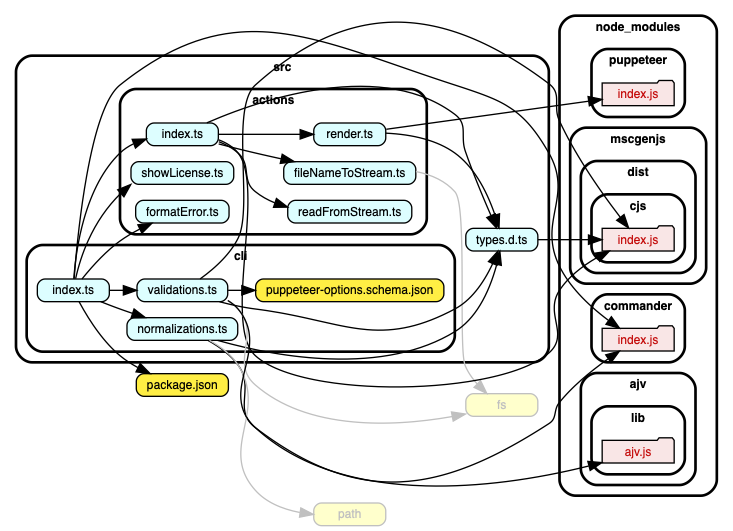
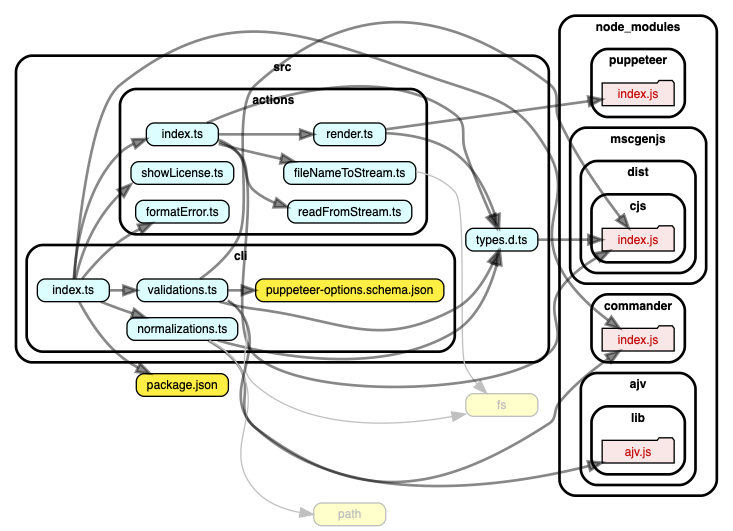
build(npm): :arrow_up: ajv, puppeteer, @types/node, @types/puppeteer, dependency-cruiser, ts-node, tslint, typescript

diff --git a/docs/dependencygraph.html b/docs/dependencygraph.html
@@ -4,24 +4,26 @@
         <meta charset="utf-8">
         <title>dependency-cruiser dependency-graph</title>
         <style>
+            .node:active path, .node:hover path 
+            .node:active polygon, .node:hover polygon {
+                stroke:fuchsia;
+                stroke-width:2;
+            }
+            .node:active text, .node:hover text {
+                fill:fuchsia;
+            }
             .edge:active path, .edge:hover path{
                 stroke:fuchsia;
-                stroke-width:3;
                 stroke-opacity:1;
             }
             .edge:active polygon, .edge:hover polygon  {
                 stroke:fuchsia;
-                stroke-width:3;
                 fill:fuchsia;
                 stroke-opacity:1;
                 fill-opacity:1;
             }
             .edge:active text, .edge:hover text{
                 fill:fuchsia;
-            }
-            .cluster path {
-               stroke-width:3;
-               fill: white;
             }
             .cluster:active path, .cluster:hover path {
                 fill: #ffff0011;
@@ -42,57 +44,57 @@
 <polygon fill="#ffffff" stroke="transparent" points="-4,4 -4,-394.5 545.6255,-394.5 545.6255,4 -4,4"/>
 <g id="clust1" class="cluster">
 <title>cluster_node_modules</title>
-<path fill="none" stroke="#000000" stroke-width="2" d="M427.6255,-22.5C427.6255,-22.5 521.6255,-22.5 521.6255,-22.5 527.6255,-22.5 533.6255,-28.5 533.6255,-34.5 533.6255,-34.5 533.6255,-370.5 533.6255,-370.5 533.6255,-376.5 527.6255,-382.5 521.6255,-382.5 521.6255,-382.5 427.6255,-382.5 427.6255,-382.5 421.6255,-382.5 415.6255,-376.5 415.6255,-370.5 415.6255,-370.5 415.6255,-34.5 415.6255,-34.5 415.6255,-28.5 421.6255,-22.5 427.6255,-22.5"/>
+<path fill="#ffffff" stroke="#000000" stroke-width="2" d="M427.6255,-22.5C427.6255,-22.5 521.6255,-22.5 521.6255,-22.5 527.6255,-22.5 533.6255,-28.5 533.6255,-34.5 533.6255,-34.5 533.6255,-370.5 533.6255,-370.5 533.6255,-376.5 527.6255,-382.5 521.6255,-382.5 521.6255,-382.5 427.6255,-382.5 427.6255,-382.5 421.6255,-382.5 415.6255,-376.5 415.6255,-370.5 415.6255,-370.5 415.6255,-34.5 415.6255,-34.5 415.6255,-28.5 421.6255,-22.5 427.6255,-22.5"/>
 <text text-anchor="middle" x="474.6255" y="-371.3" font-family="Helvetica,sans-Serif" font-weight="bold" font-size="9.00" fill="#000000">node_modules</text>
 </g>
 <g id="clust2" class="cluster">
 <title>cluster_node_modules/ajv</title>
-<path fill="none" stroke="#000000" stroke-width="2" d="M443.6255,-30.5C443.6255,-30.5 505.6255,-30.5 505.6255,-30.5 511.6255,-30.5 517.6255,-36.5 517.6255,-42.5 517.6255,-42.5 517.6255,-102.5 517.6255,-102.5 517.6255,-108.5 511.6255,-114.5 505.6255,-114.5 505.6255,-114.5 443.6255,-114.5 443.6255,-114.5 437.6255,-114.5 431.6255,-108.5 431.6255,-102.5 431.6255,-102.5 431.6255,-42.5 431.6255,-42.5 431.6255,-36.5 437.6255,-30.5 443.6255,-30.5"/>
+<path fill="#ffffff" stroke="#000000" stroke-width="2" d="M443.6255,-30.5C443.6255,-30.5 505.6255,-30.5 505.6255,-30.5 511.6255,-30.5 517.6255,-36.5 517.6255,-42.5 517.6255,-42.5 517.6255,-102.5 517.6255,-102.5 517.6255,-108.5 511.6255,-114.5 505.6255,-114.5 505.6255,-114.5 443.6255,-114.5 443.6255,-114.5 437.6255,-114.5 431.6255,-108.5 431.6255,-102.5 431.6255,-102.5 431.6255,-42.5 431.6255,-42.5 431.6255,-36.5 437.6255,-30.5 443.6255,-30.5"/>
 <text text-anchor="middle" x="474.6255" y="-103.3" font-family="Helvetica,sans-Serif" font-weight="bold" font-size="9.00" fill="#000000">ajv</text>
 </g>
 <g id="clust3" class="cluster">
 <title>cluster_node_modules/ajv/lib</title>
-<path fill="none" stroke="#000000" stroke-width="2" d="M451.6255,-38.5C451.6255,-38.5 497.6255,-38.5 497.6255,-38.5 503.6255,-38.5 509.6255,-44.5 509.6255,-50.5 509.6255,-50.5 509.6255,-77.5 509.6255,-77.5 509.6255,-83.5 503.6255,-89.5 497.6255,-89.5 497.6255,-89.5 451.6255,-89.5 451.6255,-89.5 445.6255,-89.5 439.6255,-83.5 439.6255,-77.5 439.6255,-77.5 439.6255,-50.5 439.6255,-50.5 439.6255,-44.5 445.6255,-38.5 451.6255,-38.5"/>
+<path fill="#ffffff" stroke="#000000" stroke-width="2" d="M451.6255,-38.5C451.6255,-38.5 497.6255,-38.5 497.6255,-38.5 503.6255,-38.5 509.6255,-44.5 509.6255,-50.5 509.6255,-50.5 509.6255,-77.5 509.6255,-77.5 509.6255,-83.5 503.6255,-89.5 497.6255,-89.5 497.6255,-89.5 451.6255,-89.5 451.6255,-89.5 445.6255,-89.5 439.6255,-83.5 439.6255,-77.5 439.6255,-77.5 439.6255,-50.5 439.6255,-50.5 439.6255,-44.5 445.6255,-38.5 451.6255,-38.5"/>
 <text text-anchor="middle" x="474.6255" y="-78.3" font-family="Helvetica,sans-Serif" font-weight="bold" font-size="9.00" fill="#000000">lib</text>
 </g>
 <g id="clust4" class="cluster">
 <title>cluster_node_modules/commander</title>
-<path fill="none" stroke="#000000" stroke-width="2" d="M451.6255,-122.5C451.6255,-122.5 497.6255,-122.5 497.6255,-122.5 503.6255,-122.5 509.6255,-128.5 509.6255,-134.5 509.6255,-134.5 509.6255,-161.5 509.6255,-161.5 509.6255,-167.5 503.6255,-173.5 497.6255,-173.5 497.6255,-173.5 451.6255,-173.5 451.6255,-173.5 445.6255,-173.5 439.6255,-167.5 439.6255,-161.5 439.6255,-161.5 439.6255,-134.5 439.6255,-134.5 439.6255,-128.5 445.6255,-122.5 451.6255,-122.5"/>
+<path fill="#ffffff" stroke="#000000" stroke-width="2" d="M451.6255,-122.5C451.6255,-122.5 497.6255,-122.5 497.6255,-122.5 503.6255,-122.5 509.6255,-128.5 509.6255,-134.5 509.6255,-134.5 509.6255,-161.5 509.6255,-161.5 509.6255,-167.5 503.6255,-173.5 497.6255,-173.5 497.6255,-173.5 451.6255,-173.5 451.6255,-173.5 445.6255,-173.5 439.6255,-167.5 439.6255,-161.5 439.6255,-161.5 439.6255,-134.5 439.6255,-134.5 439.6255,-128.5 445.6255,-122.5 451.6255,-122.5"/>
 <text text-anchor="middle" x="474.6255" y="-162.3" font-family="Helvetica,sans-Serif" font-weight="bold" font-size="9.00" fill="#000000">commander</text>
 </g>
 <g id="clust5" class="cluster">
 <title>cluster_node_modules/mscgenjs</title>
-<path fill="none" stroke="#000000" stroke-width="2" d="M435.6255,-181.5C435.6255,-181.5 513.6255,-181.5 513.6255,-181.5 519.6255,-181.5 525.6255,-187.5 525.6255,-193.5 525.6255,-193.5 525.6255,-286.5 525.6255,-286.5 525.6255,-292.5 519.6255,-298.5 513.6255,-298.5 513.6255,-298.5 435.6255,-298.5 435.6255,-298.5 429.6255,-298.5 423.6255,-292.5 423.6255,-286.5 423.6255,-286.5 423.6255,-193.5 423.6255,-193.5 423.6255,-187.5 429.6255,-181.5 435.6255,-181.5"/>
+<path fill="#ffffff" stroke="#000000" stroke-width="2" d="M435.6255,-181.5C435.6255,-181.5 513.6255,-181.5 513.6255,-181.5 519.6255,-181.5 525.6255,-187.5 525.6255,-193.5 525.6255,-193.5 525.6255,-286.5 525.6255,-286.5 525.6255,-292.5 519.6255,-298.5 513.6255,-298.5 513.6255,-298.5 435.6255,-298.5 435.6255,-298.5 429.6255,-298.5 423.6255,-292.5 423.6255,-286.5 423.6255,-286.5 423.6255,-193.5 423.6255,-193.5 423.6255,-187.5 429.6255,-181.5 435.6255,-181.5"/>
 <text text-anchor="middle" x="474.6255" y="-287.3" font-family="Helvetica,sans-Serif" font-weight="bold" font-size="9.00" fill="#000000">mscgenjs</text>
 </g>
 <g id="clust6" class="cluster">
 <title>cluster_node_modules/mscgenjs/dist</title>
-<path fill="none" stroke="#000000" stroke-width="2" d="M443.6255,-189.5C443.6255,-189.5 505.6255,-189.5 505.6255,-189.5 511.6255,-189.5 517.6255,-195.5 517.6255,-201.5 517.6255,-201.5 517.6255,-261.5 517.6255,-261.5 517.6255,-267.5 511.6255,-273.5 505.6255,-273.5 505.6255,-273.5 443.6255,-273.5 443.6255,-273.5 437.6255,-273.5 431.6255,-267.5 431.6255,-261.5 431.6255,-261.5 431.6255,-201.5 431.6255,-201.5 431.6255,-195.5 437.6255,-189.5 443.6255,-189.5"/>
+<path fill="#ffffff" stroke="#000000" stroke-width="2" d="M443.6255,-189.5C443.6255,-189.5 505.6255,-189.5 505.6255,-189.5 511.6255,-189.5 517.6255,-195.5 517.6255,-201.5 517.6255,-201.5 517.6255,-261.5 517.6255,-261.5 517.6255,-267.5 511.6255,-273.5 505.6255,-273.5 505.6255,-273.5 443.6255,-273.5 443.6255,-273.5 437.6255,-273.5 431.6255,-267.5 431.6255,-261.5 431.6255,-261.5 431.6255,-201.5 431.6255,-201.5 431.6255,-195.5 437.6255,-189.5 443.6255,-189.5"/>
 <text text-anchor="middle" x="474.6255" y="-262.3" font-family="Helvetica,sans-Serif" font-weight="bold" font-size="9.00" fill="#000000">dist</text>
 </g>
 <g id="clust7" class="cluster">
 <title>cluster_node_modules/mscgenjs/dist/cjs</title>
-<path fill="none" stroke="#000000" stroke-width="2" d="M451.6255,-197.5C451.6255,-197.5 497.6255,-197.5 497.6255,-197.5 503.6255,-197.5 509.6255,-203.5 509.6255,-209.5 509.6255,-209.5 509.6255,-236.5 509.6255,-236.5 509.6255,-242.5 503.6255,-248.5 497.6255,-248.5 497.6255,-248.5 451.6255,-248.5 451.6255,-248.5 445.6255,-248.5 439.6255,-242.5 439.6255,-236.5 439.6255,-236.5 439.6255,-209.5 439.6255,-209.5 439.6255,-203.5 445.6255,-197.5 451.6255,-197.5"/>
+<path fill="#ffffff" stroke="#000000" stroke-width="2" d="M451.6255,-197.5C451.6255,-197.5 497.6255,-197.5 497.6255,-197.5 503.6255,-197.5 509.6255,-203.5 509.6255,-209.5 509.6255,-209.5 509.6255,-236.5 509.6255,-236.5 509.6255,-242.5 503.6255,-248.5 497.6255,-248.5 497.6255,-248.5 451.6255,-248.5 451.6255,-248.5 445.6255,-248.5 439.6255,-242.5 439.6255,-236.5 439.6255,-236.5 439.6255,-209.5 439.6255,-209.5 439.6255,-203.5 445.6255,-197.5 451.6255,-197.5"/>
 <text text-anchor="middle" x="474.6255" y="-237.3" font-family="Helvetica,sans-Serif" font-weight="bold" font-size="9.00" fill="#000000">cjs</text>
 </g>
 <g id="clust8" class="cluster">
 <title>cluster_node_modules/puppeteer</title>
-<path fill="none" stroke="#000000" stroke-width="2" d="M451.6255,-306.5C451.6255,-306.5 497.6255,-306.5 497.6255,-306.5 503.6255,-306.5 509.6255,-312.5 509.6255,-318.5 509.6255,-318.5 509.6255,-345.5 509.6255,-345.5 509.6255,-351.5 503.6255,-357.5 497.6255,-357.5 497.6255,-357.5 451.6255,-357.5 451.6255,-357.5 445.6255,-357.5 439.6255,-351.5 439.6255,-345.5 439.6255,-345.5 439.6255,-318.5 439.6255,-318.5 439.6255,-312.5 445.6255,-306.5 451.6255,-306.5"/>
+<path fill="#ffffff" stroke="#000000" stroke-width="2" d="M451.6255,-306.5C451.6255,-306.5 497.6255,-306.5 497.6255,-306.5 503.6255,-306.5 509.6255,-312.5 509.6255,-318.5 509.6255,-318.5 509.6255,-345.5 509.6255,-345.5 509.6255,-351.5 503.6255,-357.5 497.6255,-357.5 497.6255,-357.5 451.6255,-357.5 451.6255,-357.5 445.6255,-357.5 439.6255,-351.5 439.6255,-345.5 439.6255,-345.5 439.6255,-318.5 439.6255,-318.5 439.6255,-312.5 445.6255,-306.5 451.6255,-306.5"/>
 <text text-anchor="middle" x="474.6255" y="-346.3" font-family="Helvetica,sans-Serif" font-weight="bold" font-size="9.00" fill="#000000">puppeteer</text>
 </g>
 <g id="clust9" class="cluster">
 <title>cluster_src</title>
-<path fill="none" stroke="#000000" stroke-width="2" d="M20,-122.5C20,-122.5 395.6255,-122.5 395.6255,-122.5 401.6255,-122.5 407.6255,-128.5 407.6255,-134.5 407.6255,-134.5 407.6255,-340.5 407.6255,-340.5 407.6255,-346.5 401.6255,-352.5 395.6255,-352.5 395.6255,-352.5 20,-352.5 20,-352.5 14,-352.5 8,-346.5 8,-340.5 8,-340.5 8,-134.5 8,-134.5 8,-128.5 14,-122.5 20,-122.5"/>
+<path fill="#ffffff" stroke="#000000" stroke-width="2" d="M20,-122.5C20,-122.5 395.6255,-122.5 395.6255,-122.5 401.6255,-122.5 407.6255,-128.5 407.6255,-134.5 407.6255,-134.5 407.6255,-340.5 407.6255,-340.5 407.6255,-346.5 401.6255,-352.5 395.6255,-352.5 395.6255,-352.5 20,-352.5 20,-352.5 14,-352.5 8,-346.5 8,-340.5 8,-340.5 8,-134.5 8,-134.5 8,-128.5 14,-122.5 20,-122.5"/>
 <text text-anchor="middle" x="207.8127" y="-341.3" font-family="Helvetica,sans-Serif" font-weight="bold" font-size="9.00" fill="#000000">src</text>
 </g>
 <g id="clust10" class="cluster">
 <title>cluster_src/actions</title>
-<path fill="none" stroke="#000000" stroke-width="2" d="M98,-218.5C98,-218.5 304.0818,-218.5 304.0818,-218.5 310.0818,-218.5 316.0818,-224.5 316.0818,-230.5 316.0818,-230.5 316.0818,-315.5 316.0818,-315.5 316.0818,-321.5 310.0818,-327.5 304.0818,-327.5 304.0818,-327.5 98,-327.5 98,-327.5 92,-327.5 86,-321.5 86,-315.5 86,-315.5 86,-230.5 86,-230.5 86,-224.5 92,-218.5 98,-218.5"/>
+<path fill="#ffffff" stroke="#000000" stroke-width="2" d="M98,-218.5C98,-218.5 304.0818,-218.5 304.0818,-218.5 310.0818,-218.5 316.0818,-224.5 316.0818,-230.5 316.0818,-230.5 316.0818,-315.5 316.0818,-315.5 316.0818,-321.5 310.0818,-327.5 304.0818,-327.5 304.0818,-327.5 98,-327.5 98,-327.5 92,-327.5 86,-321.5 86,-315.5 86,-315.5 86,-230.5 86,-230.5 86,-224.5 92,-218.5 98,-218.5"/>
 <text text-anchor="middle" x="201.0409" y="-316.3" font-family="Helvetica,sans-Serif" font-weight="bold" font-size="9.00" fill="#000000">actions</text>
 </g>
 <g id="clust11" class="cluster">
 <title>cluster_src/cli</title>
-<path fill="none" stroke="#000000" stroke-width="2" d="M28,-130.5C28,-130.5 325.1074,-130.5 325.1074,-130.5 331.1074,-130.5 337.1074,-136.5 337.1074,-142.5 337.1074,-142.5 337.1074,-198.5 337.1074,-198.5 337.1074,-204.5 331.1074,-210.5 325.1074,-210.5 325.1074,-210.5 28,-210.5 28,-210.5 22,-210.5 16,-204.5 16,-198.5 16,-198.5 16,-142.5 16,-142.5 16,-136.5 22,-130.5 28,-130.5"/>
+<path fill="#ffffff" stroke="#000000" stroke-width="2" d="M28,-130.5C28,-130.5 325.1074,-130.5 325.1074,-130.5 331.1074,-130.5 337.1074,-136.5 337.1074,-142.5 337.1074,-142.5 337.1074,-198.5 337.1074,-198.5 337.1074,-204.5 331.1074,-210.5 325.1074,-210.5 325.1074,-210.5 28,-210.5 28,-210.5 22,-210.5 16,-204.5 16,-198.5 16,-198.5 16,-142.5 16,-142.5 16,-136.5 22,-130.5 28,-130.5"/>
 <text text-anchor="middle" x="176.5537" y="-199.3" font-family="Helvetica,sans-Serif" font-weight="bold" font-size="9.00" fill="#000000">cli</text>
 </g>
 <!-- fs -->
@@ -188,14 +190,14 @@
 <!-- src/actions/index.ts&#45;&gt;node_modules/mscgenjs/dist/cjs/index.js -->
 <g id="edge6" class="edge">
 <title>src/actions/index.ts&#45;&gt;node_modules/mscgenjs/dist/cjs/index.js</title>
-<path fill="none" stroke="#000000" d="M159.9134,-289.4077C165.5252,-287.3201 170.8425,-284.1888 174.5293,-279.5 195.4838,-252.8506 162.5571,-150.4276 187.5293,-127.5 223.559,-94.4202 370.701,-97.422 407.6255,-129.5 423.6216,-143.3965 403.9495,-158.8178 415.6255,-176.5 422.5316,-186.9587 433.414,-195.1478 443.962,-201.2027"/>
-<polygon fill="#000000" stroke="#000000" points="442.5575,-204.4186 453.037,-205.9776 445.817,-198.2237 442.5575,-204.4186"/>
+<path fill="none" stroke="#000000" stroke-width="2" stroke-opacity="0.466667" d="M159.9134,-289.4077C165.5252,-287.3201 170.8425,-284.1888 174.5293,-279.5 195.4838,-252.8506 162.5571,-150.4276 187.5293,-127.5 223.559,-94.4202 370.701,-97.422 407.6255,-129.5 423.6216,-143.3965 403.9495,-158.8178 415.6255,-176.5 422.5316,-186.9587 433.414,-195.1478 443.962,-201.2027"/>
+<polygon fill="#000000" fill-opacity="0.466667" stroke="#000000" stroke-width="2" stroke-opacity="0.466667" points="442.5575,-204.4186 453.037,-205.9776 445.817,-198.2237 442.5575,-204.4186"/>
 </g>
 <!-- src/actions/index.ts&#45;&gt;src/actions/fileNameToStream.ts -->
 <g id="edge3" class="edge">
 <title>src/actions/index.ts&#45;&gt;src/actions/fileNameToStream.ts</title>
-<path fill="none" stroke="#000000" d="M160.0098,-286.2981C168.7773,-284.044 178.5468,-281.5989 187.5293,-279.5 193.7108,-278.0556 200.2101,-276.597 206.6609,-275.186"/>
-<polygon fill="#000000" stroke="#000000" points="207.6694,-278.549 216.7052,-273.0169 206.1917,-271.7067 207.6694,-278.549"/>
+<path fill="none" stroke="#000000" stroke-width="2" stroke-opacity="0.466667" d="M160.0098,-286.2981C168.7773,-284.044 178.5468,-281.5989 187.5293,-279.5 193.7108,-278.0556 200.2101,-276.597 206.6609,-275.186"/>
+<polygon fill="#000000" fill-opacity="0.466667" stroke="#000000" stroke-width="2" stroke-opacity="0.466667" points="207.6694,-278.549 216.7052,-273.0169 206.1917,-271.7067 207.6694,-278.549"/>
 </g>
 <!-- src/actions/readFromStream.ts -->
 <g id="node11" class="node">
@@ -209,8 +211,8 @@
 <!-- src/actions/index.ts&#45;&gt;src/actions/readFromStream.ts -->
 <g id="edge4" class="edge">
 <title>src/actions/index.ts&#45;&gt;src/actions/readFromStream.ts</title>
-<path fill="none" stroke="#000000" d="M160.1549,-287.9305C165.3619,-285.9232 170.4501,-283.198 174.5293,-279.5 184.994,-270.0134 176.5383,-259.3715 187.5293,-250.5 191.8672,-246.9986 196.8282,-244.2604 202.066,-242.126"/>
-<polygon fill="#000000" stroke="#000000" points="203.3422,-245.3898 211.718,-238.9017 201.1243,-238.7505 203.3422,-245.3898"/>
+<path fill="none" stroke="#000000" stroke-width="2" stroke-opacity="0.466667" d="M160.1549,-287.9305C165.3619,-285.9232 170.4501,-283.198 174.5293,-279.5 184.994,-270.0134 176.5383,-259.3715 187.5293,-250.5 191.8672,-246.9986 196.8282,-244.2604 202.066,-242.126"/>
+<polygon fill="#000000" fill-opacity="0.466667" stroke="#000000" stroke-width="2" stroke-opacity="0.466667" points="203.3422,-245.3898 211.718,-238.9017 201.1243,-238.7505 203.3422,-245.3898"/>
 </g>
 <!-- src/actions/render.ts -->
 <g id="node12" class="node">
@@ -224,8 +226,8 @@
 <!-- src/actions/index.ts&#45;&gt;src/actions/render.ts -->
 <g id="edge5" class="edge">
 <title>src/actions/index.ts&#45;&gt;src/actions/render.ts</title>
-<path fill="none" stroke="#000000" d="M160.0091,-293.5C177.8601,-293.5 201.427,-293.5 221.0114,-293.5"/>
-<polygon fill="#000000" stroke="#000000" points="221.1286,-297.0001 231.1286,-293.5 221.1285,-290.0001 221.1286,-297.0001"/>
+<path fill="none" stroke="#000000" stroke-width="2" stroke-opacity="0.466667" d="M160.0091,-293.5C177.8601,-293.5 201.427,-293.5 221.0114,-293.5"/>
+<polygon fill="#000000" fill-opacity="0.466667" stroke="#000000" stroke-width="2" stroke-opacity="0.466667" points="221.1286,-297.0001 231.1286,-293.5 221.1285,-290.0001 221.1286,-297.0001"/>
 </g>
 <!-- src/types.d.ts -->
 <g id="node18" class="node">
@@ -239,20 +241,20 @@
 <!-- src/actions/index.ts&#45;&gt;src/types.d.ts -->
 <g id="edge2" class="edge">
 <title>src/actions/index.ts&#45;&gt;src/types.d.ts</title>
-<path fill="none" stroke="#000000" d="M151.1146,-302.1195C189.8525,-318.9075 281.0207,-350.8063 337.1074,-308.5 347.44,-300.7061 340.8525,-292.723 345.1074,-280.5 350.8318,-264.0557 358.4802,-245.7888 364.2182,-232.6492"/>
-<polygon fill="#000000" stroke="#000000" points="367.4901,-233.9044 368.3372,-223.3434 361.0892,-231.071 367.4901,-233.9044"/>
+<path fill="none" stroke="#000000" stroke-width="2" stroke-opacity="0.466667" d="M151.1146,-302.1195C189.8525,-318.9075 281.0207,-350.8063 337.1074,-308.5 347.44,-300.7061 340.8525,-292.723 345.1074,-280.5 350.8318,-264.0557 358.4802,-245.7888 364.2182,-232.6492"/>
+<polygon fill="#000000" fill-opacity="0.466667" stroke="#000000" stroke-width="2" stroke-opacity="0.466667" points="367.4901,-233.9044 368.3372,-223.3434 361.0892,-231.071 367.4901,-233.9044"/>
 </g>
 <!-- src/actions/render.ts&#45;&gt;node_modules/puppeteer/index.js -->
 <g id="edge8" class="edge">
 <title>src/actions/render.ts&#45;&gt;node_modules/puppeteer/index.js</title>
-<path fill="none" stroke="#000000" d="M285.7138,-297.2995C324.1521,-302.6306 394.2096,-312.347 437.3604,-318.3316"/>
-<polygon fill="#000000" stroke="#000000" points="437.0664,-321.8243 447.4525,-319.7313 438.0281,-314.8907 437.0664,-321.8243"/>
+<path fill="none" stroke="#000000" stroke-width="2" stroke-opacity="0.466667" d="M285.7138,-297.2995C324.1521,-302.6306 394.2096,-312.347 437.3604,-318.3316"/>
+<polygon fill="#000000" fill-opacity="0.466667" stroke="#000000" stroke-width="2" stroke-opacity="0.466667" points="437.0664,-321.8243 447.4525,-319.7313 438.0281,-314.8907 437.0664,-321.8243"/>
 </g>
 <!-- src/actions/render.ts&#45;&gt;src/types.d.ts -->
 <g id="edge7" class="edge">
 <title>src/actions/render.ts&#45;&gt;src/types.d.ts</title>
-<path fill="none" stroke="#000000" d="M285.3977,-294.3784C301.7507,-293.6141 322.2334,-290.2271 337.1074,-279.5 352.6922,-268.2603 362.1058,-247.9449 367.2371,-233.008"/>
-<polygon fill="#000000" stroke="#000000" points="370.632,-233.8767 370.2436,-223.289 363.9446,-231.808 370.632,-233.8767"/>
+<path fill="none" stroke="#000000" stroke-width="2" stroke-opacity="0.466667" d="M285.3977,-294.3784C301.7507,-293.6141 322.2334,-290.2271 337.1074,-279.5 352.6922,-268.2603 362.1058,-247.9449 367.2371,-233.008"/>
+<polygon fill="#000000" fill-opacity="0.466667" stroke="#000000" stroke-width="2" stroke-opacity="0.466667" points="370.632,-233.8767 370.2436,-223.289 363.9446,-231.808 370.632,-233.8767"/>
 </g>
 <!-- src/actions/showLicense.ts -->
 <g id="node13" class="node">
@@ -275,32 +277,32 @@
 <!-- src/cli/index.ts&#45;&gt;node_modules/commander/index.js -->
 <g id="edge15" class="edge">
 <title>src/cli/index.ts&#45;&gt;node_modules/commander/index.js</title>
-<path fill="none" stroke="#000000" d="M51.6014,-185.2514C53.851,-215.0924 62.8574,-312.0269 86,-330.5 173.2229,-400.1238 230.9289,-364.8717 337.1074,-330.5 373.9063,-318.5876 388.4319,-313.0807 407.6255,-279.5 426.4547,-246.5567 398.8768,-228.5482 415.6255,-194.5 423.7613,-177.9607 439.1282,-163.8893 452.1395,-154.1203"/>
-<polygon fill="#000000" stroke="#000000" points="454.5313,-156.7143 460.6532,-148.0671 450.475,-151.0093 454.5313,-156.7143"/>
+<path fill="none" stroke="#000000" stroke-width="2" stroke-opacity="0.466667" d="M51.6014,-185.2514C53.851,-215.0924 62.8574,-312.0269 86,-330.5 173.2229,-400.1238 230.9289,-364.8717 337.1074,-330.5 373.9063,-318.5876 388.4319,-313.0807 407.6255,-279.5 426.4547,-246.5567 398.8768,-228.5482 415.6255,-194.5 423.7613,-177.9607 439.1282,-163.8893 452.1395,-154.1203"/>
+<polygon fill="#000000" fill-opacity="0.466667" stroke="#000000" stroke-width="2" stroke-opacity="0.466667" points="454.5313,-156.7143 460.6532,-148.0671 450.475,-151.0093 454.5313,-156.7143"/>
 </g>
 <!-- src/cli/index.ts&#45;&gt;package.json -->
 <g id="edge9" class="edge">
 <title>src/cli/index.ts&#45;&gt;package.json</title>
-<path fill="none" stroke="#000000" d="M55.3717,-167.8551C61.1382,-157.1772 72.1909,-139.0167 86,-127.5 90.0311,-124.1381 94.6619,-121.1639 99.4079,-118.5757"/>
-<polygon fill="#000000" stroke="#000000" points="101.1244,-121.6319 108.5492,-114.0739 98.0317,-115.3521 101.1244,-121.6319"/>
+<path fill="none" stroke="#000000" stroke-width="2" stroke-opacity="0.466667" d="M55.3717,-167.8551C61.1382,-157.1772 72.1909,-139.0167 86,-127.5 90.0311,-124.1381 94.6619,-121.1639 99.4079,-118.5757"/>
+<polygon fill="#000000" fill-opacity="0.466667" stroke="#000000" stroke-width="2" stroke-opacity="0.466667" points="101.1244,-121.6319 108.5492,-114.0739 98.0317,-115.3521 101.1244,-121.6319"/>
 </g>
 <!-- src/cli/index.ts&#45;&gt;src/actions/formatError.ts -->
 <g id="edge11" class="edge">
 <title>src/cli/index.ts&#45;&gt;src/actions/formatError.ts</title>
-<path fill="none" stroke="#000000" d="M57.4845,-185.0143C64.0025,-193.1351 74.682,-205.3095 86,-213.5 90.5431,-216.7877 95.6553,-219.7814 100.788,-222.4287"/>
-<polygon fill="#000000" stroke="#000000" points="99.3998,-225.6445 109.9305,-226.8083 102.424,-219.3314 99.3998,-225.6445"/>
+<path fill="none" stroke="#000000" stroke-width="2" stroke-opacity="0.466667" d="M57.4845,-185.0143C64.0025,-193.1351 74.682,-205.3095 86,-213.5 90.5431,-216.7877 95.6553,-219.7814 100.788,-222.4287"/>
+<polygon fill="#000000" fill-opacity="0.466667" stroke="#000000" stroke-width="2" stroke-opacity="0.466667" points="99.3998,-225.6445 109.9305,-226.8083 102.424,-219.3314 99.3998,-225.6445"/>
 </g>
 <!-- src/cli/index.ts&#45;&gt;src/actions/index.ts -->
 <g id="edge10" class="edge">
 <title>src/cli/index.ts&#45;&gt;src/actions/index.ts</title>
-<path fill="none" stroke="#000000" d="M51.3679,-185.0718C52.68,-204.6832 58.6695,-253.1544 86,-279.5 88.9365,-282.3306 92.4216,-284.5918 96.1453,-286.3975"/>
-<polygon fill="#000000" stroke="#000000" points="95.1248,-289.7534 105.7164,-290.013 97.5984,-283.205 95.1248,-289.7534"/>
+<path fill="none" stroke="#000000" stroke-width="2" stroke-opacity="0.466667" d="M51.3679,-185.0718C52.68,-204.6832 58.6695,-253.1544 86,-279.5 88.9365,-282.3306 92.4216,-284.5918 96.1453,-286.3975"/>
+<polygon fill="#000000" fill-opacity="0.466667" stroke="#000000" stroke-width="2" stroke-opacity="0.466667" points="95.1248,-289.7534 105.7164,-290.013 97.5984,-283.205 95.1248,-289.7534"/>
 </g>
 <!-- src/cli/index.ts&#45;&gt;src/actions/showLicense.ts -->
 <g id="edge12" class="edge">
 <title>src/cli/index.ts&#45;&gt;src/actions/showLicense.ts</title>
-<path fill="none" stroke="#000000" d="M52.6961,-185.2102C55.8364,-199.2141 63.8182,-227.0033 86.5572,-249.2095"/>
-<polygon fill="#000000" stroke="#000000" points="84.2957,-251.882 94.0989,-255.9004 88.9413,-246.6457 84.2957,-251.882"/>
+<path fill="none" stroke="#000000" stroke-width="2" stroke-opacity="0.466667" d="M52.6961,-185.2102C55.8364,-199.2141 63.8182,-227.0033 86.5572,-249.2095"/>
+<polygon fill="#000000" fill-opacity="0.466667" stroke="#000000" stroke-width="2" stroke-opacity="0.466667" points="84.2957,-251.882 94.0989,-255.9004 88.9413,-246.6457 84.2957,-251.882"/>
 </g>
 <!-- src/cli/normalizations.ts -->
 <g id="node15" class="node">
@@ -314,8 +316,8 @@
 <!-- src/cli/index.ts&#45;&gt;src/cli/normalizations.ts -->
 <g id="edge13" class="edge">
 <title>src/cli/index.ts&#45;&gt;src/cli/normalizations.ts</title>
-<path fill="none" stroke="#000000" d="M71.6363,-167.967C76.3341,-166.1023 81.32,-164.1842 86,-162.5 89.0487,-161.4029 92.2227,-160.3009 95.4177,-159.2198"/>
-<polygon fill="#000000" stroke="#000000" points="96.5654,-162.5268 104.9612,-156.0644 94.368,-155.8806 96.5654,-162.5268"/>
+<path fill="none" stroke="#000000" stroke-width="2" stroke-opacity="0.466667" d="M71.6363,-167.967C76.3341,-166.1023 81.32,-164.1842 86,-162.5 89.0487,-161.4029 92.2227,-160.3009 95.4177,-159.2198"/>
+<polygon fill="#000000" fill-opacity="0.466667" stroke="#000000" stroke-width="2" stroke-opacity="0.466667" points="96.5654,-162.5268 104.9612,-156.0644 94.368,-155.8806 96.5654,-162.5268"/>
 </g>
 <!-- src/cli/validations.ts -->
 <g id="node17" class="node">
@@ -329,14 +331,14 @@
 <!-- src/cli/index.ts&#45;&gt;src/cli/validations.ts -->
 <g id="edge14" class="edge">
 <title>src/cli/index.ts&#45;&gt;src/cli/validations.ts</title>
-<path fill="none" stroke="#000000" d="M78.2269,-176.5C81.4789,-176.5 84.8611,-176.5 88.2771,-176.5"/>
-<polygon fill="#000000" stroke="#000000" points="88.5304,-180.0001 98.5304,-176.5 88.5304,-173.0001 88.5304,-180.0001"/>
+<path fill="none" stroke="#000000" stroke-width="2" stroke-opacity="0.466667" d="M78.2269,-176.5C81.4789,-176.5 84.8611,-176.5 88.2771,-176.5"/>
+<polygon fill="#000000" fill-opacity="0.466667" stroke="#000000" stroke-width="2" stroke-opacity="0.466667" points="88.5304,-180.0001 98.5304,-176.5 88.5304,-173.0001 88.5304,-180.0001"/>
 </g>
 <!-- src/cli/normalizations.ts&#45;&gt;node_modules/commander/index.js -->
 <g id="edge17" class="edge">
 <title>src/cli/normalizations.ts&#45;&gt;node_modules/commander/index.js</title>
-<path fill="none" stroke="#000000" d="M152.11,-138.8804C160.0969,-134.4366 168.8061,-128.2943 174.5293,-120.5 187.3568,-103.0305 170.2818,-86.6245 187.5293,-73.5 265.3818,-14.258 325.5187,-23.3106 407.6255,-76.5 414.2982,-80.8226 410.6208,-86.3224 415.6255,-92.5 425.8733,-105.1496 440.0809,-116.5968 451.9862,-125.0265"/>
-<polygon fill="#000000" stroke="#000000" points="450.3031,-128.115 460.5376,-130.8545 454.2453,-122.3306 450.3031,-128.115"/>
+<path fill="none" stroke="#000000" stroke-width="2" stroke-opacity="0.466667" d="M152.11,-138.8804C160.0969,-134.4366 168.8061,-128.2943 174.5293,-120.5 187.3568,-103.0305 170.2818,-86.6245 187.5293,-73.5 265.3818,-14.258 325.5187,-23.3106 407.6255,-76.5 414.2982,-80.8226 410.6208,-86.3224 415.6255,-92.5 425.8733,-105.1496 440.0809,-116.5968 451.9862,-125.0265"/>
+<polygon fill="#000000" fill-opacity="0.466667" stroke="#000000" stroke-width="2" stroke-opacity="0.466667" points="450.3031,-128.115 460.5376,-130.8545 454.2453,-122.3306 450.3031,-128.115"/>
 </g>
 <!-- src/cli/normalizations.ts&#45;&gt;path -->
 <g id="edge18" class="edge">
@@ -347,8 +349,8 @@
 <!-- src/cli/normalizations.ts&#45;&gt;src/types.d.ts -->
 <g id="edge16" class="edge">
 <title>src/cli/normalizations.ts&#45;&gt;src/types.d.ts</title>
-<path fill="none" stroke="#000000" d="M159.2896,-138.9329C200.6659,-127.2795 281.5794,-111.5171 337.1074,-145.5 354.8209,-156.3406 363.9926,-179.1981 368.483,-195.6374"/>
-<polygon fill="#000000" stroke="#000000" points="365.1731,-196.8473 370.8913,-205.7665 371.9832,-195.2281 365.1731,-196.8473"/>
+<path fill="none" stroke="#000000" stroke-width="2" stroke-opacity="0.466667" d="M159.2896,-138.9329C200.6659,-127.2795 281.5794,-111.5171 337.1074,-145.5 354.8209,-156.3406 363.9926,-179.1981 368.483,-195.6374"/>
+<polygon fill="#000000" fill-opacity="0.466667" stroke="#000000" stroke-width="2" stroke-opacity="0.466667" points="365.1731,-196.8473 370.8913,-205.7665 371.9832,-195.2281 365.1731,-196.8473"/>
 </g>
 <!-- src/cli/puppeteer&#45;options.schema.json -->
 <g id="node16" class="node">
@@ -368,32 +370,32 @@
 <!-- src/cli/validations.ts&#45;&gt;node_modules/ajv/lib/ajv.js -->
 <g id="edge21" class="edge">
 <title>src/cli/validations.ts&#45;&gt;node_modules/ajv/lib/ajv.js</title>
-<path fill="none" stroke="#000000" d="M166.8128,-168.9101C169.7217,-167.1895 172.3715,-165.0817 174.5293,-162.5 200.1655,-131.8274 158.1219,-100.5782 187.5293,-73.5 255.9463,-10.5021 376.7493,-29.6343 437.5172,-44.7431"/>
-<polygon fill="#000000" stroke="#000000" points="436.8814,-48.1938 447.4392,-47.3083 438.6336,-41.4166 436.8814,-48.1938"/>
+<path fill="none" stroke="#000000" stroke-width="2" stroke-opacity="0.466667" d="M166.8128,-168.9101C169.7217,-167.1895 172.3715,-165.0817 174.5293,-162.5 200.1655,-131.8274 158.1219,-100.5782 187.5293,-73.5 255.9463,-10.5021 376.7493,-29.6343 437.5172,-44.7431"/>
+<polygon fill="#000000" fill-opacity="0.466667" stroke="#000000" stroke-width="2" stroke-opacity="0.466667" points="436.8814,-48.1938 447.4392,-47.3083 438.6336,-41.4166 436.8814,-48.1938"/>
 </g>
 <!-- src/cli/validations.ts&#45;&gt;node_modules/mscgenjs/dist/cjs/index.js -->
 <g id="edge23" class="edge">
 <title>src/cli/validations.ts&#45;&gt;node_modules/mscgenjs/dist/cjs/index.js</title>
-<path fill="none" stroke="#000000" d="M146.0665,-185.0348C155.6979,-191.9937 168.1096,-202.7383 174.5293,-215.5 186.0868,-238.4751 168.404,-313.3054 187.5293,-330.5 260.2739,-395.9008 329.5298,-390.4077 407.6255,-331.5 417.958,-323.7061 410.2084,-315.2542 415.6255,-303.5 428.0476,-276.5462 448.0068,-248.498 461.2182,-231.2654"/>
-<polygon fill="#000000" stroke="#000000" points="464.04,-233.3386 467.4362,-223.3028 458.5229,-229.0303 464.04,-233.3386"/>
+<path fill="none" stroke="#000000" stroke-width="2" stroke-opacity="0.466667" d="M146.0665,-185.0348C155.6979,-191.9937 168.1096,-202.7383 174.5293,-215.5 186.0868,-238.4751 168.404,-313.3054 187.5293,-330.5 260.2739,-395.9008 329.5298,-390.4077 407.6255,-331.5 417.958,-323.7061 410.2084,-315.2542 415.6255,-303.5 428.0476,-276.5462 448.0068,-248.498 461.2182,-231.2654"/>
+<polygon fill="#000000" fill-opacity="0.466667" stroke="#000000" stroke-width="2" stroke-opacity="0.466667" points="464.04,-233.3386 467.4362,-223.3028 458.5229,-229.0303 464.04,-233.3386"/>
 </g>
 <!-- src/cli/validations.ts&#45;&gt;src/cli/puppeteer&#45;options.schema.json -->
 <g id="edge20" class="edge">
 <title>src/cli/validations.ts&#45;&gt;src/cli/puppeteer&#45;options.schema.json</title>
-<path fill="none" stroke="#000000" d="M167.0738,-176.5C170.3683,-176.5 173.7954,-176.5 177.3059,-176.5"/>
-<polygon fill="#000000" stroke="#000000" points="177.3787,-180.0001 187.3787,-176.5 177.3786,-173.0001 177.3787,-180.0001"/>
+<path fill="none" stroke="#000000" stroke-width="2" stroke-opacity="0.466667" d="M167.0738,-176.5C170.3683,-176.5 173.7954,-176.5 177.3059,-176.5"/>
+<polygon fill="#000000" fill-opacity="0.466667" stroke="#000000" stroke-width="2" stroke-opacity="0.466667" points="177.3787,-180.0001 187.3787,-176.5 177.3786,-173.0001 177.3787,-180.0001"/>
 </g>
 <!-- src/cli/validations.ts&#45;&gt;src/types.d.ts -->
 <g id="edge19" class="edge">
 <title>src/cli/validations.ts&#45;&gt;src/types.d.ts</title>
-<path fill="none" stroke="#000000" d="M160.6473,-167.9385C169.1881,-165.7058 178.6691,-163.6146 187.5293,-162.5 253.4886,-154.2023 278.3718,-131.3614 337.1074,-162.5 350.5238,-169.6127 359.7755,-184.3679 365.4245,-196.3498"/>
-<polygon fill="#000000" stroke="#000000" points="362.3493,-198.0634 369.4754,-205.9036 368.794,-195.3307 362.3493,-198.0634"/>
+<path fill="none" stroke="#000000" stroke-width="2" stroke-opacity="0.466667" d="M160.6473,-167.9385C169.1881,-165.7058 178.6691,-163.6146 187.5293,-162.5 253.4886,-154.2023 278.3718,-131.3614 337.1074,-162.5 350.5238,-169.6127 359.7755,-184.3679 365.4245,-196.3498"/>
+<polygon fill="#000000" fill-opacity="0.466667" stroke="#000000" stroke-width="2" stroke-opacity="0.466667" points="362.3493,-198.0634 369.4754,-205.9036 368.794,-195.3307 362.3493,-198.0634"/>
 </g>
 <!-- src/types.d.ts&#45;&gt;node_modules/mscgenjs/dist/cjs/index.js -->
 <g id="edge24" class="edge">
 <title>src/types.d.ts&#45;&gt;node_modules/mscgenjs/dist/cjs/index.js</title>
-<path fill="none" stroke="#000000" d="M399.5015,-214.5C411.0581,-214.5 424.7296,-214.5 437.2209,-214.5"/>
-<polygon fill="#000000" stroke="#000000" points="437.3637,-218.0001 447.3636,-214.5 437.3636,-211.0001 437.3637,-218.0001"/>
+<path fill="none" stroke="#000000" stroke-width="2" stroke-opacity="0.466667" d="M399.5015,-214.5C411.0581,-214.5 424.7296,-214.5 437.2209,-214.5"/>
+<polygon fill="#000000" fill-opacity="0.466667" stroke="#000000" stroke-width="2" stroke-opacity="0.466667" points="437.3637,-218.0001 447.3636,-214.5 437.3636,-211.0001 437.3637,-218.0001"/>
 </g>
 </g>
 </svg>

diff --git a/docs/assets/depcruise-graph-head.snippet.html b/docs/assets/depcruise-graph-head.snippet.html
@@ -4,24 +4,26 @@
         <meta charset="utf-8">
         <title>dependency-cruiser dependency-graph</title>
         <style>
+            .node:active path, .node:hover path 
+            .node:active polygon, .node:hover polygon {
+                stroke:fuchsia;
+                stroke-width:2;
+            }
+            .node:active text, .node:hover text {
+                fill:fuchsia;
+            }
             .edge:active path, .edge:hover path{
                 stroke:fuchsia;
-                stroke-width:3;
                 stroke-opacity:1;
             }
             .edge:active polygon, .edge:hover polygon  {
                 stroke:fuchsia;
-                stroke-width:3;
                 fill:fuchsia;
                 stroke-opacity:1;
                 fill-opacity:1;
             }
             .edge:active text, .edge:hover text{
                 fill:fuchsia;
-            }
-            .cluster path {
-               stroke-width:3;
-               fill: white;
             }
             .cluster:active path, .cluster:hover path {
                 fill: #ffff0011;
